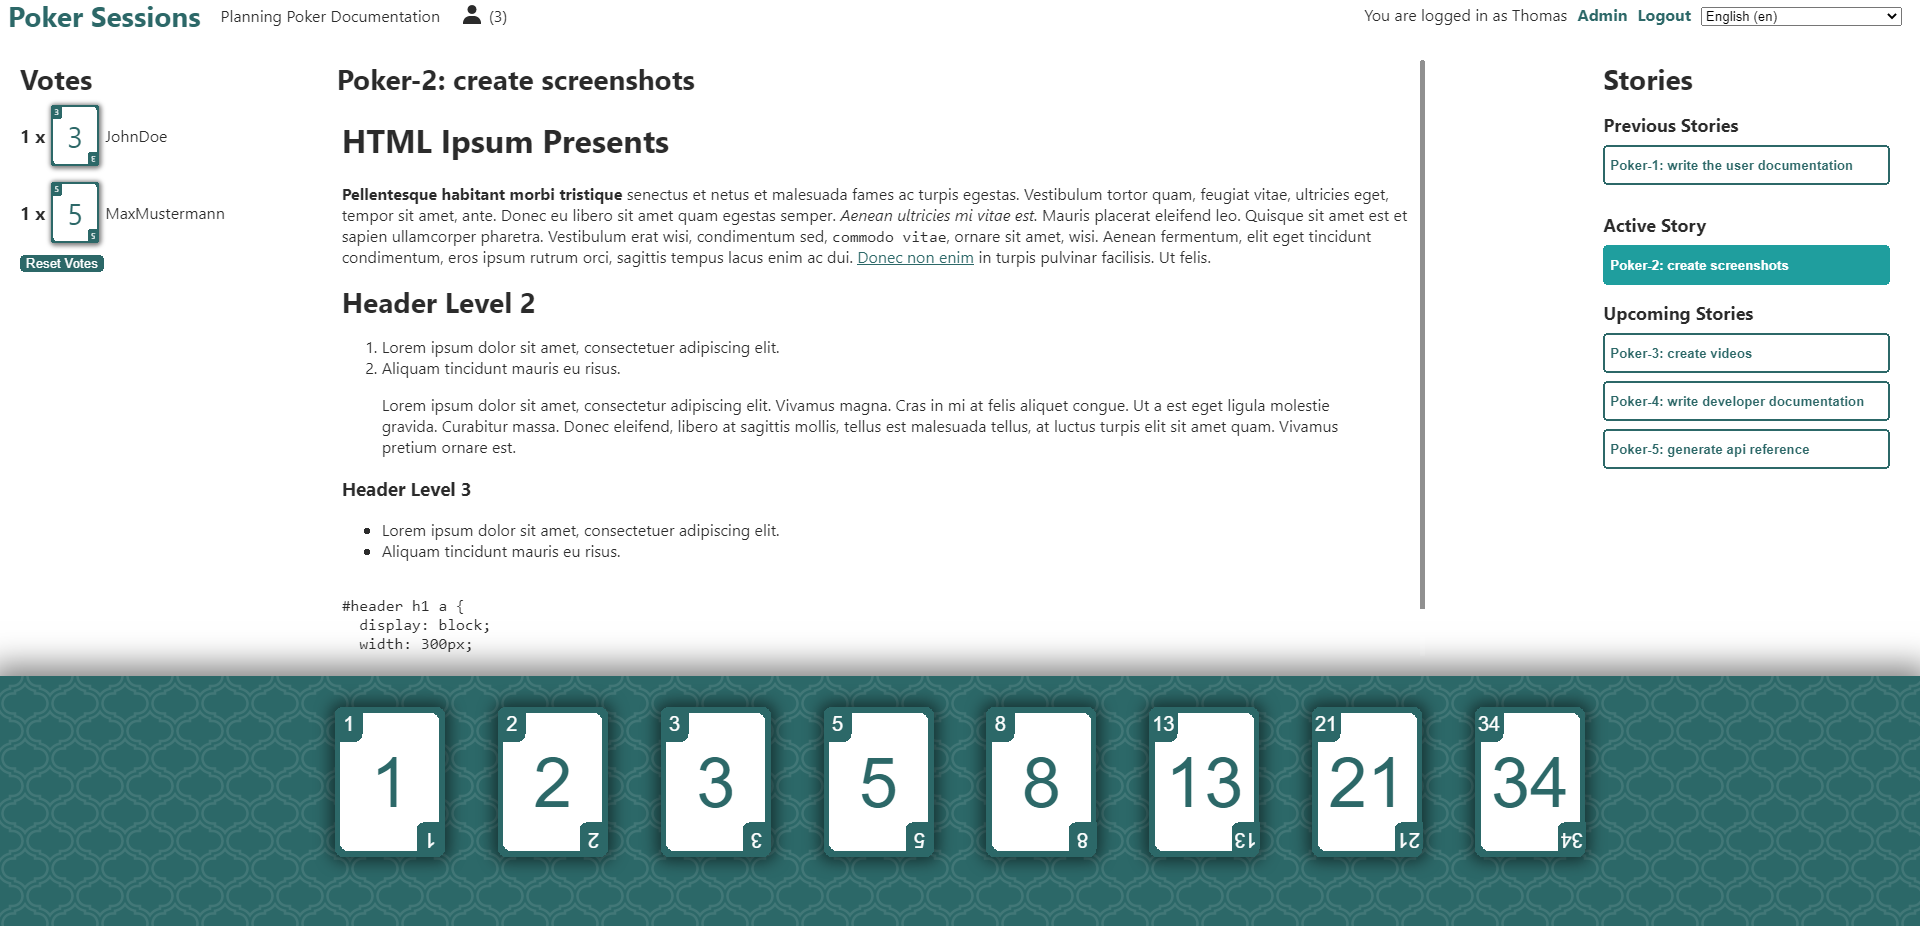
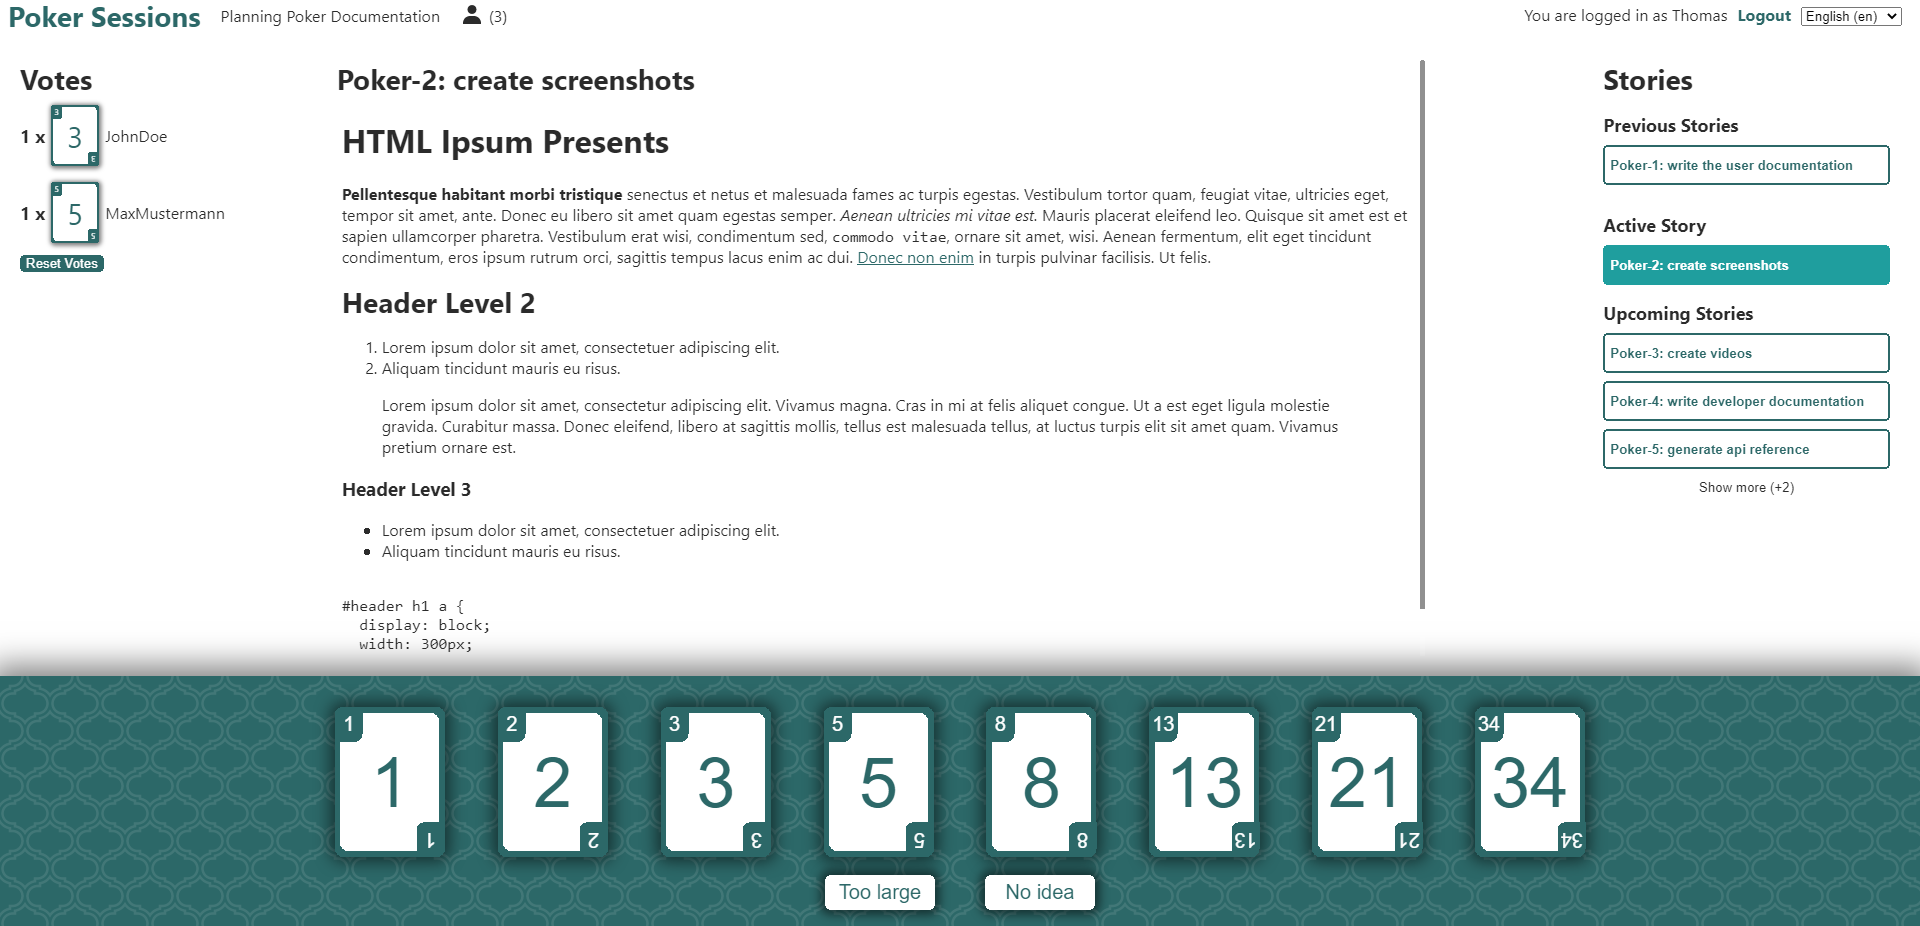
FIAE-190: Added explanations for the main ui components to the docs.

Changed region(s): [[0.4062, 0.9374, 0.5938, 0.9978], [0.7188, 0.0, 0.9688, 0.0302], [0.875, 0.514, 0.9375, 0.5443]]

diff --git a/docs/user_docs/user_interface.rst b/docs/user_docs/user_interface.rst
@@ -1,0 +1,64 @@
+User Interface
+==============
+The user interface consists of 5 interactive components which look the same but behave differently depending on the
+roles of the user.
+
+Current Story
+-------------
+
+.. figure:: static/current_story.png
+   :alt: The component showing the title and the description of the currently active story.
+
+This is the main component of the poker session view. This component shows the title and the description of the
+currently active story. The participants will use the information they see here as a baseline for their discussion and
+estimation of the story's points.
+
+.. note::
+   The description supports HTML syntax so be aware when you are importing story descriptions from places where you have
+   no control over which could potentially contain malicious input.
+
+Stories Overview
+----------------
+
+.. figure:: static/stories_overview.png
+   :alt: A list of the stories which are a part of this poker session.
+
+This is a list of all the stories in the poker session. Any stories which already have their points estimated are marked
+as such and show their points next to the story title.
+
+This list is split up into three parts:
+
+#. **Previous Stories**: This shows all the previously pokered/skipped stories
+
+#. **Active Story**: This is the currently active story. It is displayed in the `Current Story`_ component and is the
+   story which should be discussed/estimated by the participants.
+
+#. **Upcoming Stories**: This shows all the stories which are left in the poker session.
+
+Both the Previous Stores and Upcoming Stories sublists can be expanded/collapsed to show show/hide all of their stories
+inside.
+
+Voting Options
+--------------
+
+.. figure:: static/voting_options.png
+   :alt: The options a participant has to vote for the current story.
+
+These are the options a participant has in order to vote/set the story points for the current story. Clicking on one of
+them as a voter will send the vote to the server and from there to the other participants. These votes will then be
+shown in the `Votes Overview`_. The moderator will not see the two buttons :code:`Too large` and :code:`No idea` since
+they are not valid options for the final story points. Clicking on the cards as a moderator will set the story's points
+to the selected value and set the next unpokered story from the Upcoming Stories list as the new currently active story
+for all participants.
+
+Votes Overview
+--------------
+
+.. figure:: static/votes_overview.png
+   :alt: Shows all the voters' votes.
+
+Participants List
+-----------------
+
+.. figure:: static/participants_list.png
+   :alt: When hovered over shows a list of all the participants in this poker session.

diff --git a/README.rst b/README.rst
@@ -16,7 +16,7 @@ Features
 * 🗳 The users are separated into **voters** and **moderators** who see and do different things during a session.
   See `roles` for more information
 
-* 👥 See who participates in your session via a **live updated list of users**.
+* 👥 See who participates in your session via a **live updated list of participants**.
 
   .. figure:: docs/static/participants_overview.gif
      :alt: Live updated list of participants

diff --git a/docs/index.rst b/docs/index.rst
@@ -7,7 +7,7 @@ Welcome to Planning Poker's documentation!
 
    user_docs/index
 
-.. include:: readme.rst
+.. include:: ../README.rst
 
 Indices and tables
 ==================

diff --git a/docs/user_docs/index.rst b/docs/user_docs/index.rst
@@ -7,3 +7,4 @@ User documentation
 
    configuration
    roles
+   user_interface
